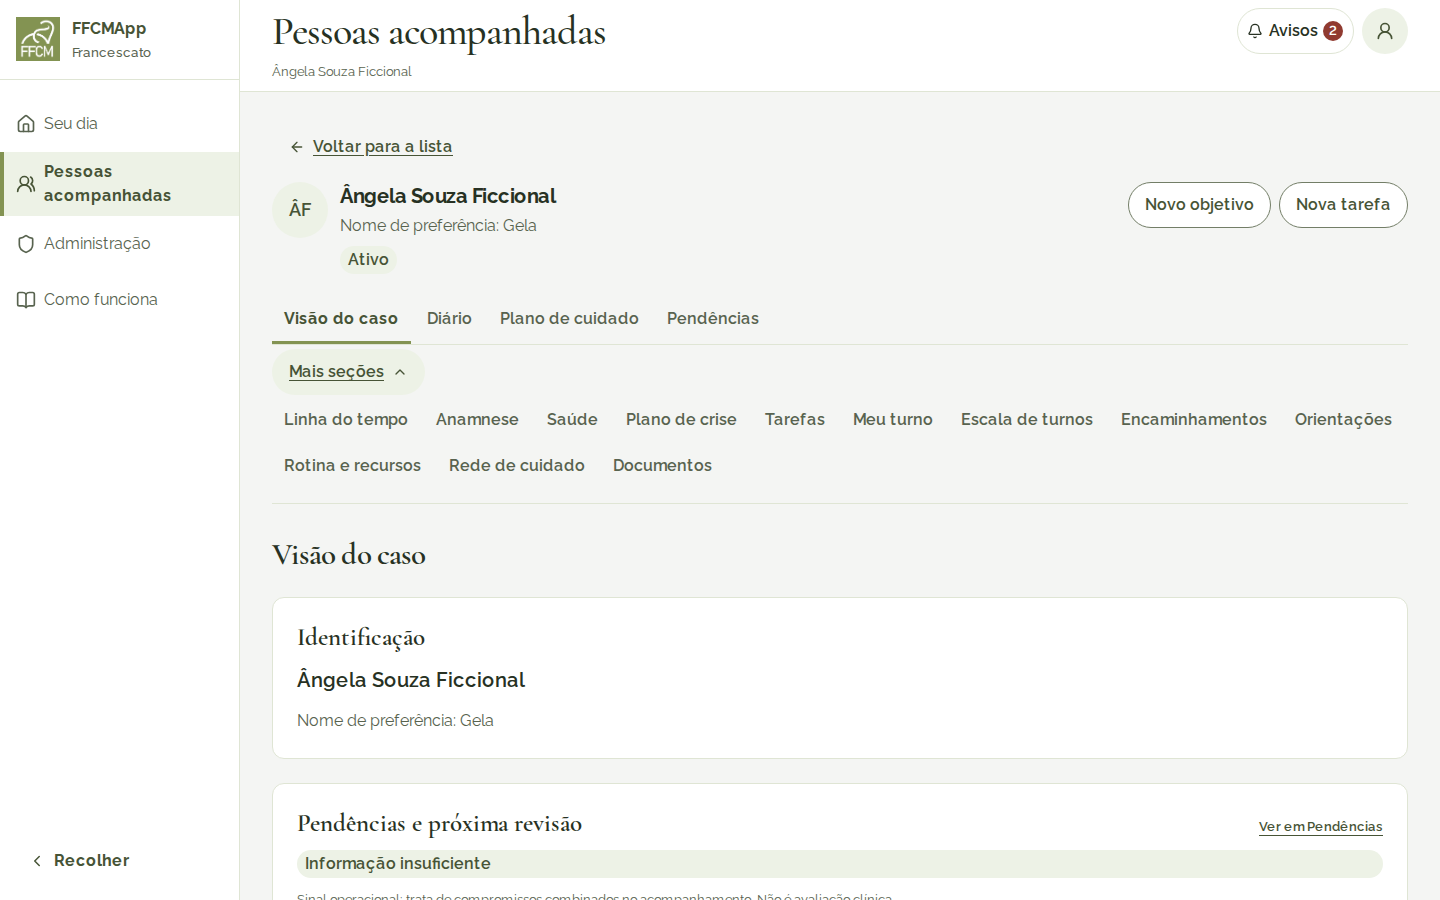
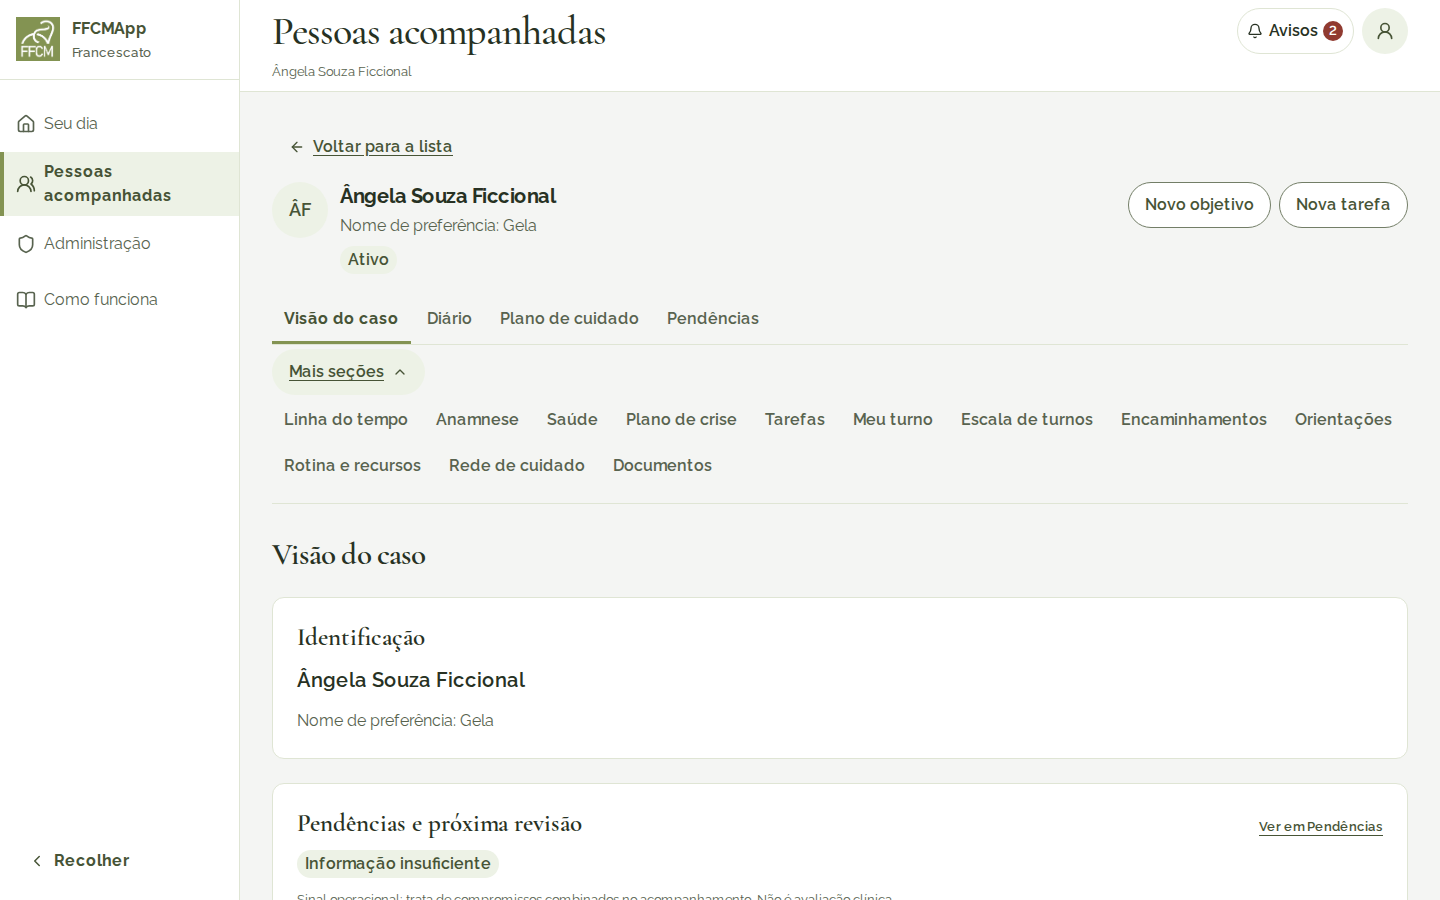
Ajusta as marcas de pendências à largura do texto

Changed region(s): [[0.3438, 0.9333, 0.9688, 0.9956]]

diff --git a/scripts/prova-celular/ficha-primitivas.pw.ts b/scripts/prova-celular/ficha-primitivas.pw.ts
@@ -1,5 +1,5 @@
 import { resolve } from 'node:path';
-import { expect, type Page, test } from '@playwright/test';
+import { expect, type Locator, type Page, test } from '@playwright/test';
 import { createServer, type ViteDevServer } from 'vite';
 import { envelope } from '../../web/fixtures/comum.js';
 import { responder } from '../../web/fixtures/despachante.js';
@@ -174,3 +174,39 @@ test('link direto do Cadastro não expõe a seção nem consulta o cadastro para
   expect(consultas).not.toContain(detalhe);
   expect(consultas).not.toContain('/api/contatos/barreira');
 });
+
+async function conferirLarguraDaMarca(marca: Locator) {
+  await expect(marca).toBeVisible();
+  const medidas = await marca.evaluate(async (no) => {
+    await document.fonts.ready;
+    const texto = document.createRange();
+    texto.selectNodeContents(no);
+    const { paddingInlineStart, paddingInlineEnd } = getComputedStyle(no);
+    return {
+      marca: no.getBoundingClientRect().width,
+      interna:
+        texto.getBoundingClientRect().width +
+        Number.parseFloat(paddingInlineStart) +
+        Number.parseFloat(paddingInlineEnd),
+    };
+  });
+  expect(medidas.marca, 'marca ajustada ao texto e ao recuo').toBeCloseTo(medidas.interna, 0);
+}
+
+for (const largura of [320, 1440]) {
+  test(`marcas da ficha acompanham o texto a ${largura} px`, async ({ page }) => {
+    await page.setViewportSize({ width: largura, height: 900 });
+    await preparar(page, 'profissional');
+    await page.goto(`${origem}/#carteira`);
+    await page.locator(`[data-paciente-id="${caso}"]`).click();
+    const ficha = page.locator('#ficha-view');
+    await conferirLarguraDaMarca(ficha.locator('[data-situacao=ativo]'));
+    const painel = ficha.getByRole('tabpanel');
+    await conferirLarguraDaMarca(painel.getByText('Informação insuficiente', { exact: true }));
+    await ficha.getByRole('tab', { name: 'Pendências' }).click();
+    await expect(
+      painel.getByRole('heading', { name: 'Pendências e sinal do acompanhamento' }),
+    ).toBeVisible();
+    await conferirLarguraDaMarca(painel.getByText('Informação insuficiente', { exact: true }));
+  });
+}

diff --git a/web/pendencias-caso.tsx b/web/pendencias-caso.tsx
@@ -451,7 +451,9 @@ export function TelaPendenciasCaso({
       <Superficie>
         <div className="grid min-w-0 gap-6">
           <div data-estado={sinal.estado} className="grid min-w-0 gap-2">
-            <MarcaEstado>{rotulosEstadoSinal[sinal.estado]}</MarcaEstado>
+            <MarcaEstado className="justify-self-start">
+              {rotulosEstadoSinal[sinal.estado]}
+            </MarcaEstado>
             <p className="m-0 max-w-[68ch] text-(length:--texto-1) text-texto-suave">
               {avisoSinalOperacional}
             </p>

diff --git a/web/visao-caso.tsx b/web/visao-caso.tsx
@@ -356,7 +356,7 @@ export function TelaVisaoCaso({
             return {
               conteudo: (
                 <>
-                  <MarcaEstado data-estado={sinal.estado}>
+                  <MarcaEstado className="justify-self-start" data-estado={sinal.estado}>
                     {rotulosEstadoSinal[sinal.estado]}
                   </MarcaEstado>
                   <p className="m-0 max-w-[68ch] text-(length:--texto-1) text-texto-suave">

diff --git a/openspec/changes/migrar-interface-para-react/estado/10f.md b/openspec/changes/migrar-interface-para-react/estado/10f.md
@@ -13,7 +13,7 @@ conservam as permissões e URLs existentes.
 - A folha inicial passou de 98.817 a 96.926 bytes e de 18.646 a 18.336
   bytes gzip. Para as capturas a 390 e 1440 px, o Chromium confirmou
   `index-0drtuZKW.css` e `index-M6fzGBzF.css` aplicadas nos respectivos
-  builds. As imagens da faixa principal e de Mais seções estão em
+  builds. As imagens da faixa principal, de Mais seções e de Pendências estão em
   `docs/auditoria-visual-2026-11/fatia-10f-*.png`.
 - Axe na página inteira sem violações a 320, 390 e 1440 px, com Mais seções
   aberto e fechado. A 320 px o documento ficou em 320/320 e a faixa em
@@ -22,6 +22,11 @@ conservam as permissões e URLs existentes.
   largura num documento de 320 px. Com a quebra restaurada, o teste passou.
   O Chromium também exercitou o link direto do Cadastro como Família,
   com retorno a Dados do paciente e sem consulta de Cadastro técnico.
+- A marca “Informação insuficiente”, em Visão do caso e Pendências, passou
+  de 1.086 a 202 px em uma janela de 1440 px. O Chromium mediu o texto e
+  os recuos nessas duas seções e no selo do cabeçalho a 320 e 1440 px.
+  Na contraprova com `justify-self: stretch`, a marca voltou a 1.086 px
+  quando o texto e os recuos mediam 202 px.
 - Passaram 38 Vitest, 28 cenários Chromium de ficha e casca e a prova
   local de autorização positiva e negativa no PostgreSQL 17. A tarefa 7.1
   segue para os controles e conteúdo das seções. O próximo recorte é Diário e evolução.
